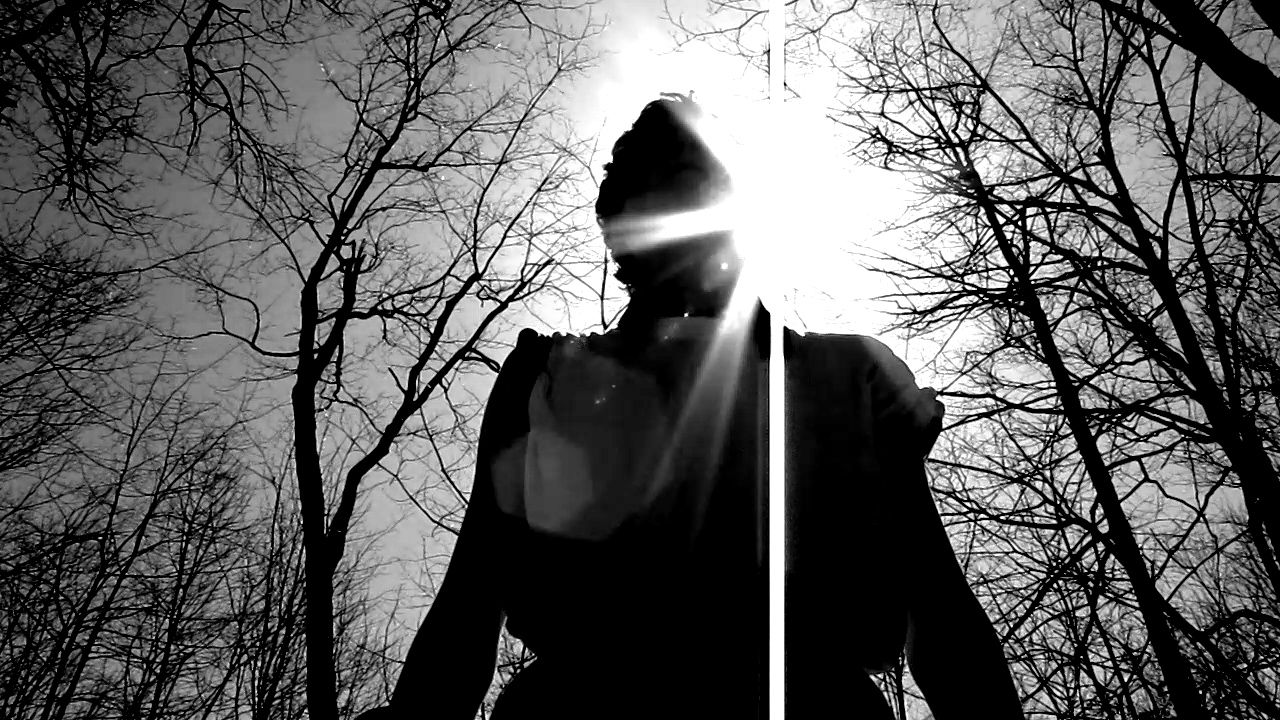
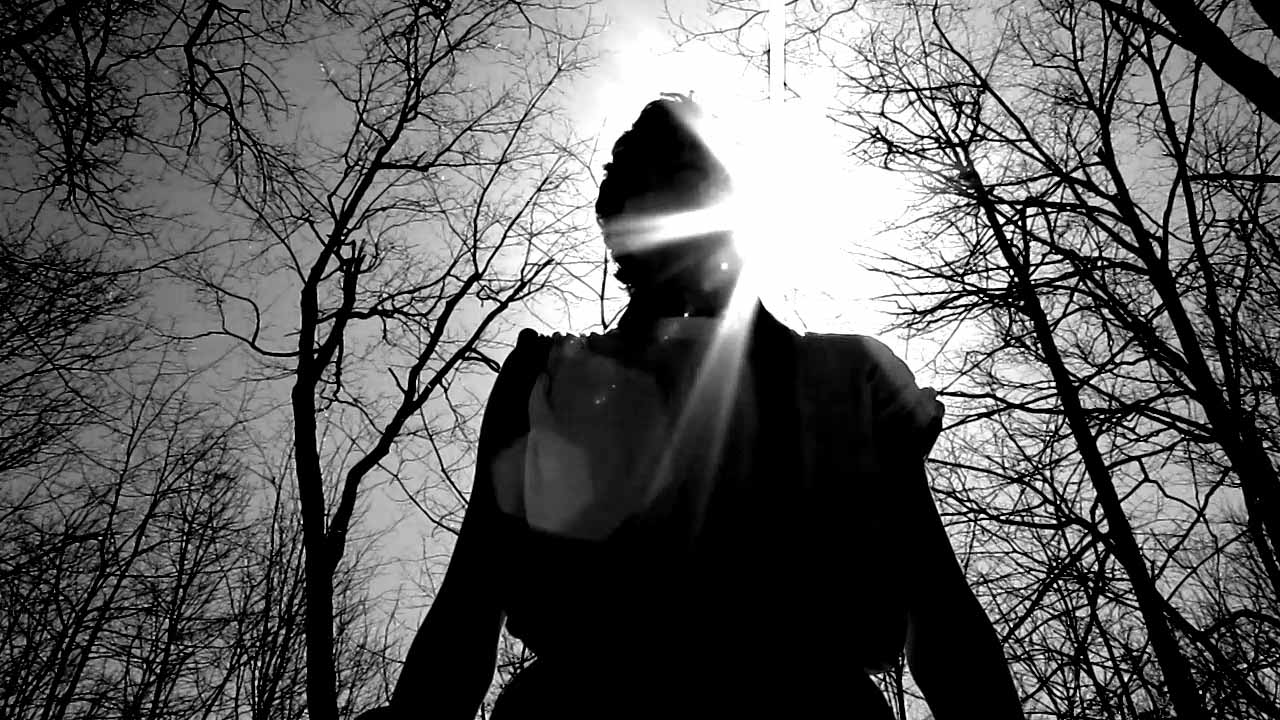
SecondLight added

Changed region(s): [[0.5625, 0.4278, 0.625, 1.0]]

diff --git a/secondlight/secondlight.html b/secondlight/secondlight.html
@@ -12,7 +12,7 @@
 
     <link href="../assets/css/bootstrap.min.css" rel="stylesheet">
 	<link href="../assets/css/andydow.css" rel="stylesheet">
-    <link href="codemakingcss.css" rel="stylesheet">
+    <link href="secondlightcss.css" rel="stylesheet">
 
   </head>
 
@@ -29,7 +29,7 @@
               <h3 class="masthead-brand">andydow.com</h3>
               <ul class="nav masthead-nav">
                 <li><a href="../index.html">Home</a></li>
-				<li class="active"><a href="codemaking.html">Codemaking</a></li>
+				<li><a href="../codemaking/codemaking.html">Codemaking</a></li>
                 <li><a href="../filmmaking/filmmaking.html">Filmmaking</a></li>
                 <li><a href="../CV/Andy_Dow_CV.pdf">CV</a></li>
               </ul>
@@ -37,12 +37,9 @@
           </div>
 
           <div class="inner-cover">
-            <h1 class="cover-heading">Codemaking</h1>
-            <p class="lead">Studying Computer Science at Newcastle University has been pretty eye-opening, it turns out things have changed a wee bit since the nineties. Here are some ramblings I've been playing around with:</p>
-			<p class="lead">
-            <a href="https://github.com/andyrobdow/HaikuCreator" class="btn btn-lg btn-link">Haiku Creator</a>
-            <a href="../secondlight/secondlight.html" class="btn btn-lg btn-link">SecondLight</a>
-            </p>
+            <h1 class="cover-heading">Microsoft SecondLight</h1>
+            <p class="lead">The SecondLight combines rear projection with camera gesture tracking and uses an electronically switchable diffuser to separate two images entwined in the projection. One image appears on the surface, the other in the air above. For my masters project I was lucky enough to get access to one to write software for. Working with musicians we deployed a very unique and colourful live music controller.</p>
+			<a href="https://www.youtube.com/watch?v=XfzplPIrzjY" class="btn btn-lg btn-link">Watch SL in action</a>
           </div>
 
           <div class="mastfoot">

diff --git a/filmmaking/filmmaking.html b/filmmaking/filmmaking.html
@@ -43,7 +43,7 @@
             <a href="../spacejunk/spacejunk.html" class="btn btn-lg btn-link">Space Junk</a>
 			<a href="http://vimeo.com/27298665" class="btn btn-lg btn-link">Waste:ART</a>
 			<a href="http://vimeo.com/31461457" class="btn btn-lg btn-link">Aggro Vanc.</a>
-			<a href="http://www.nusu.co.uk/soc/content/933285/_a-z_of_societies/hobbies__interests/film/" class="btn btn-lg btn-link">Film-SOC</a>
+			<a href="http://www.film-soc.com/" class="btn btn-lg btn-link">Film-SOC</a>
 			<a href="http://vimeo.com/48564284" class="btn btn-lg btn-link">NYOS:2012</a>
             </p>
           </div>

diff --git a/spacejunk/spacejunkcss.css b/spacejunk/spacejunkcss.css
@@ -1,3 +1,3 @@
 body { 
-  background-image: url('spacejunk.png'); background-repeat: no-repeat; background-position: center;
+  background-image: url('spacejunk.jpg'); background-repeat: no-repeat; background-position: center;
   }

diff --git a/secondlight/secondlightcss.css b/secondlight/secondlightcss.css
@@ -1,0 +1,3 @@
+body { 
+  background-image: url('secondlight.jpg'); background-repeat: no-repeat; background-position: center;
+  }
